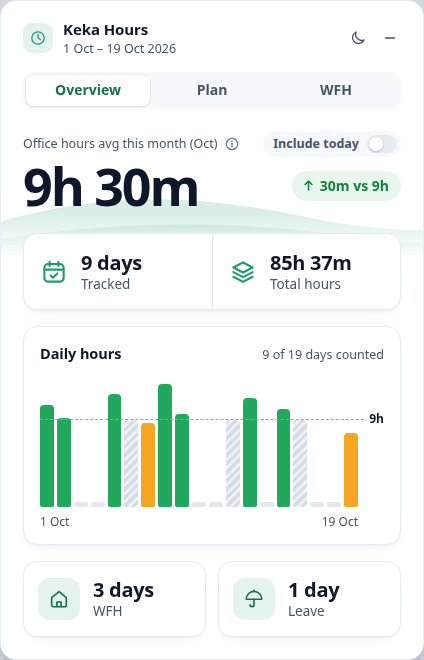
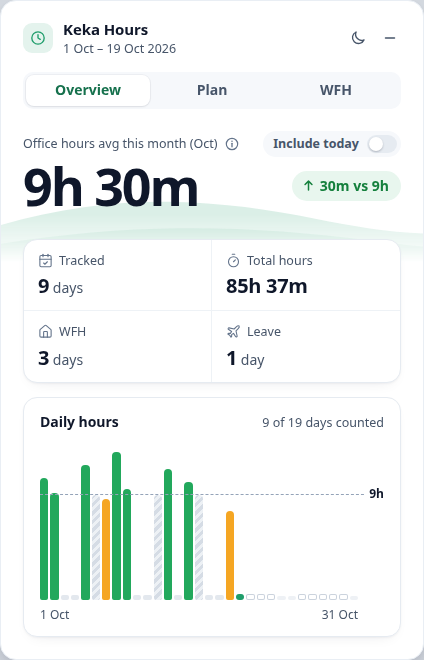
Overview: design A (one stats card, whole-month chart at the bottom)
- Tracked | Total hours over WFH | Leave in one card; each label has a thin
  grey Lucide icon (calendar, timer, house, plane) instead of the big green
  ones and icon tiles; numbers bold, units lighter.
- Daily hours moves to the bottom and always spans the whole current month:
  today a green mark, days to come an outlined mark (week-ends fainter), so a
  day's bar sits where it belongs (5 Nov near the start, not at the end).
- Stronger wave under the average.
- README text and docs/overview.png updated.

diff --git a/src/content/ui.js b/src/content/ui.js
@@ -20,11 +20,12 @@
   const ICON_SUN = '<svg viewBox="0 0 24 24" aria-hidden="true"><circle cx="12" cy="12" r="4" fill="none" stroke="currentColor" stroke-width="1.8"/><path d="M12 3v2M12 19v2M3 12h2M19 12h2M5.6 5.6L7 7M17 17l1.4 1.4M5.6 18.4L7 17M17 7l1.4-1.4" fill="none" stroke="currentColor" stroke-width="1.8" stroke-linecap="round"/></svg>';
   const ICON_BELL = '<svg viewBox="0 0 24 24" aria-hidden="true"><path d="M6.5 16.5V11a5.5 5.5 0 0 1 11 0v5.5l1.5 1.5H5z" fill="none" stroke="currentColor" stroke-width="2" stroke-linejoin="round"/><path d="M10 20.5a2.2 2.2 0 0 0 4 0" fill="none" stroke="currentColor" stroke-width="2" stroke-linecap="round"/></svg>';
   const ICON_PLUS = '<svg viewBox="0 0 24 24" aria-hidden="true"><path d="M12 5v14M5 12h14" fill="none" stroke="currentColor" stroke-width="2.2" stroke-linecap="round"/></svg>';
-  // Overview: tracked days, total hours, WFH, leave, and the "vs 9h" arrows.
-  const ICON_CAL = '<svg viewBox="0 0 24 24" aria-hidden="true"><rect x="3.75" y="5.25" width="16.5" height="15" rx="3" fill="none" stroke="currentColor" stroke-width="1.8"/><path d="M3.75 10h16.5M8.25 3.25v3.5M15.75 3.25v3.5M9.2 15.1l1.9 1.8 3.7-3.7" fill="none" stroke="currentColor" stroke-width="1.8" stroke-linecap="round" stroke-linejoin="round"/></svg>';
-  const ICON_STACK = '<svg viewBox="0 0 24 24" aria-hidden="true"><path d="M12 3.75 3.75 8.1 12 12.45l8.25-4.35z" fill="none" stroke="currentColor" stroke-width="1.8" stroke-linejoin="round"/><path d="M3.75 12.1 12 16.45l8.25-4.35M3.75 16.1 12 20.45l8.25-4.35" fill="none" stroke="currentColor" stroke-width="1.8" stroke-linecap="round" stroke-linejoin="round"/></svg>';
-  const ICON_HOME = '<svg viewBox="0 0 24 24" aria-hidden="true"><path d="M4 10.4 12 4l8 6.4v8.1a2 2 0 0 1-2 2H6a2 2 0 0 1-2-2z" fill="none" stroke="currentColor" stroke-width="1.8" stroke-linejoin="round"/><path d="M9.75 20.5v-5.25h4.5v5.25" fill="none" stroke="currentColor" stroke-width="1.8" stroke-linejoin="round"/></svg>';
-  const ICON_UMBRELLA = '<svg viewBox="0 0 24 24" aria-hidden="true"><path d="M3.5 12.25a8.5 8.5 0 0 1 17 0z" fill="none" stroke="currentColor" stroke-width="1.8" stroke-linejoin="round"/><path d="M12 12.25v6a2.1 2.1 0 0 1-4.2 0M12 3.75v-1.2" fill="none" stroke="currentColor" stroke-width="1.8" stroke-linecap="round"/></svg>';
+  // Overview stats: Lucide icons (ISC licence), drawn thin and grey beside each label.
+  const lucide = paths => `<svg viewBox="0 0 24 24" aria-hidden="true" fill="none" stroke="currentColor" stroke-width="1.75" stroke-linecap="round" stroke-linejoin="round">${paths}</svg>`;
+  const ICON_CAL = lucide('<path d="M8 2v4"/><path d="M16 2v4"/><rect width="18" height="18" x="3" y="4" rx="2"/><path d="M3 10h18"/><path d="m9 16 2 2 4-4"/>');
+  const ICON_TIMER = lucide('<path d="M10 2h4"/><path d="m12 14 3-3"/><circle cx="12" cy="14" r="8"/>');
+  const ICON_HOUSE = lucide('<path d="M15 21v-8a1 1 0 0 0-1-1h-4a1 1 0 0 0-1 1v8"/><path d="M3 10a2 2 0 0 1 .709-1.528l7-5.999a2 2 0 0 1 2.582 0l7 5.999A2 2 0 0 1 21 10v9a2 2 0 0 1-2 2H5a2 2 0 0 1-2-2z"/>');
+  const ICON_PLANE = lucide('<path d="M17.8 19.2 16 11l3.5-3.5C21 6 21.5 4 21 3c-1-.5-3 0-4.5 1.5L13 8 4.8 6.2c-.5-.1-.9.1-1.1.5l-.3.5c-.2.5-.1 1 .3 1.3L9 12l-2 3H4l-1 1 3 2 2 3 1-1v-3l3-2 3.5 5.3c.3.4.8.5 1.3.3l.5-.2c.4-.3.6-.7.5-1.2z"/>');
   const ICON_UP = '<svg viewBox="0 0 24 24" aria-hidden="true"><path d="M12 19V5M6.5 10.5 12 5l5.5 5.5" fill="none" stroke="currentColor" stroke-width="2.4" stroke-linecap="round" stroke-linejoin="round"/></svg>';
   const ICON_DOWN = '<svg viewBox="0 0 24 24" aria-hidden="true"><path d="M12 5v14M6.5 13.5 12 19l5.5-5.5" fill="none" stroke="currentColor" stroke-width="2.4" stroke-linecap="round" stroke-linejoin="round"/></svg>';
   // Overview: the soft wave under the average (decoration only).
@@ -65,7 +66,10 @@
   --card: #fff;
   --card-line: #e6ebf1;
   --card-shadow: 0 1px 2px rgba(15, 23, 42, .04), 0 6px 16px -10px rgba(15, 23, 42, .14);
-  --wave: .17;
+  --wave: .16;
+  --cell-line: #eef2f6;
+  --future-line: #cbd3dd;
+  --future-off: #eef1f5;
   --wfh-a: #d5dce5;
   --wfh-b: #edf1f5;
   --wfh-hover-a: #b9c3cf;
@@ -126,7 +130,10 @@
   --card: #1b2129;
   --card-line: #2a323c;
   --card-shadow: none;
-  --wave: .2;
+  --wave: .22;
+  --cell-line: #252d37;
+  --future-line: #3d4855;
+  --future-off: #232a33;
   --wfh-a: #38424f;
   --wfh-b: #232a33;
   --wfh-hover-a: #4b5766;
@@ -223,7 +230,7 @@ svg { width: 100%; height: 100%; display: block; }
 .pane[data-pane="wfh"] { display: flex; flex-direction: column; }
 
 /* ---------- Overview: the average, then cards ---------- */
-.ov-hero { position: relative; padding: 6px 0 20px; }
+.ov-hero { position: relative; padding: 6px 0 26px; }
 .ov-top { position: relative; z-index: 2; } /* its tooltip opens over the number */
 .ov-row { position: relative; z-index: 1; display: flex; align-items: center; justify-content: space-between; gap: 12px; margin-top: 2px; }
 .ov-value { font-size: 52px; line-height: 1.04; font-weight: 700; letter-spacing: -.04em; white-space: nowrap; }
@@ -233,27 +240,27 @@ svg { width: 100%; height: 100%; display: block; }
 .ov-chip.flat { padding: 0 12px; }
 .ov-chip svg { width: 15px; height: 15px; flex: none; }
 /* Edge to edge, fading out behind the first card. */
-.ov-wave { position: absolute; left: -22px; right: -22px; bottom: -30px; width: auto; height: 104px; pointer-events: none; -webkit-mask-image: linear-gradient(#000 50%, transparent 94%); mask-image: linear-gradient(#000 50%, transparent 94%); }
+.ov-wave { position: absolute; left: -22px; right: -22px; bottom: -30px; width: auto; height: 110px; pointer-events: none; -webkit-mask-image: linear-gradient(#000 50%, transparent 94%); mask-image: linear-gradient(#000 50%, transparent 94%); }
 .ov-wave path { fill: var(--brand); opacity: var(--wave); }
+.ov-wave path + path { opacity: calc(var(--wave) * .75); }
 .ov-card { position: relative; border: 1px solid var(--card-line); border-radius: 14px; background: var(--card); box-shadow: var(--card-shadow); }
-.ov-stats { display: grid; grid-template-columns: 1fr 1fr; }
-.ov-stat { display: flex; align-items: center; gap: 13px; min-width: 0; padding: 16px; }
-.ov-stat + .ov-stat { border-left: 1px solid var(--card-line); }
-.ov-icon { flex: none; width: 28px; height: 28px; color: var(--brand); }
-.ov-stat > div, .ov-ex > div { min-width: 0; }
-.ov-v { font-size: 20px; font-weight: 700; letter-spacing: -.015em; line-height: 1.25; white-space: nowrap; }
-.ov-l { font-size: 13.5px; color: var(--muted); white-space: nowrap; overflow: hidden; text-overflow: ellipsis; }
-.ov-pair { display: grid; grid-template-columns: 1fr 1fr; gap: 12px; margin-top: 16px; }
-.ov-ex { display: flex; align-items: center; gap: 13px; min-width: 0; padding: 15px 14px; }
-.ov-tile { flex: none; width: 42px; height: 42px; padding: 10px; border-radius: 12px; background: var(--brand-soft); color: var(--brand-text); }
-.ov-today { margin-top: 14px; padding: 9px 12px; border-radius: 11px; background: var(--brand-soft); font-size: 13px; color: var(--brand-text); }
+/* Tracked | Total hours over WFH | Leave: one card, four cells. */
+.ov-grid { display: grid; grid-template-columns: repeat(2, minmax(0, 1fr)); }
+.ov-cell { min-width: 0; padding: 12px 14px; }
+.ov-cell:nth-child(odd) { border-right: 1px solid var(--cell-line); }
+.ov-cell:nth-child(-n+2) { border-bottom: 1px solid var(--cell-line); }
+.ov-k { display: flex; align-items: center; gap: 6px; font-size: 12.5px; color: var(--muted); white-space: nowrap; overflow: hidden; text-overflow: ellipsis; }
+.ov-k svg { flex: none; width: 15px; height: 15px; color: var(--subtle); }
+.ov-v { margin-top: 4px; font-size: 20px; font-weight: 700; letter-spacing: -.015em; line-height: 1.25; white-space: nowrap; }
+.ov-v small { font-size: 14px; font-weight: 500; letter-spacing: 0; color: var(--muted); }
+.ov-today { margin-top: 12px; padding: 9px 12px; border-radius: 11px; background: var(--brand-soft); font-size: 13px; color: var(--brand-text); }
 .ov-today b { font-weight: 700; }
 
 /* Daily hours: fills the space left by the taller Plan tab. */
-.ov-chart { flex: 1; display: flex; flex-direction: column; margin-top: 16px; padding: 16px 16px 13px; }
+.ov-chart { flex: 1; display: flex; flex-direction: column; margin-top: 14px; padding: 14px 16px 12px; }
 .spark-head { display: flex; align-items: baseline; justify-content: space-between; gap: 12px; font-size: 12.5px; color: var(--muted); }
 .ov-empty { flex: 1; display: grid; place-items: center; min-height: 68px; font-size: 13px; color: var(--subtle); }
-.spark-head b { font-size: 14.5px; font-weight: 650; letter-spacing: -.005em; color: var(--text); }
+.spark-head b { font-size: 14px; font-weight: 650; letter-spacing: -.005em; color: var(--text); }
 .spark { position: relative; flex: 1; min-height: 68px; margin-top: 12px; padding-right: 26px; display: flex; align-items: flex-end; gap: 3px; }
 .spark .bar { flex: 1 1 0; max-width: 20px; min-height: 3px; border-radius: 4px 4px 2px 2px; background: var(--bar); transition: background .14s ease; }
 .spark .bar.warn { background: var(--bar-warn); }
@@ -266,6 +273,14 @@ svg { width: 100%; height: 100%; display: block; }
 .spark .bar.stub:hover { background: var(--stub-hover); }
 .spark .bar.live { background: transparent; box-shadow: inset 0 0 0 1.5px var(--brand-line); }
 .spark .bar.live:hover { background: var(--brand-soft); }
+/* Days still to come this month: an outlined mark (week-offs a faint one); today a green mark. */
+.spark .bar.future { height: 6px; min-height: 0; border-radius: 2px; background: transparent; box-shadow: inset 0 0 0 1px var(--future-line); }
+.spark .bar.future-off { height: 4px; min-height: 0; border-radius: 2px; background: var(--future-off); }
+.spark .bar.today-slot { height: 6px; min-height: 0; border-radius: 3px; background: var(--brand); }
+.spark .bar.future:hover, .spark .bar.future-off:hover, .spark .bar.today-slot:hover { filter: brightness(.92); }
+.spark .bar.future:hover { background: transparent; box-shadow: inset 0 0 0 1px var(--subtle); }
+.spark .bar.future-off:hover { background: var(--future-off); }
+.spark .bar.today-slot:hover { background: var(--brand); }
 .spark .line { position: absolute; left: 0; right: 0; border-top: 1.5px dashed var(--guide); pointer-events: none; }
 .spark .line span { position: absolute; right: 0; top: -8px; line-height: 14px; font-size: 12px; font-weight: 700; color: var(--text); background: var(--card); padding-left: 5px; }
 .spark-foot { display: flex; justify-content: space-between; margin-top: 7px; padding-right: 26px; font-size: 12px; color: var(--muted); }
@@ -516,7 +531,7 @@ button.cal-cell:hover { transform: translateY(-1px); border-color: var(--brand);
 @media (max-width: 480px) {
   .hero-value { font-size: 38px; } .ov-value { font-size: 44px; } .cal-cell { height: 44px; } .cal.six .cal-cell { height: 36px; }
   .head { padding: 16px 14px 12px 16px; } .content { padding: 2px 16px 16px; } .ov-wave { left: -16px; right: -16px; }
-  .ov-stat { gap: 10px; padding: 14px 12px; } .ov-v { font-size: 18.5px; } .tabs { margin: 0 16px 12px; }
+  .ov-cell { padding: 11px 12px; } .ov-v { font-size: 18.5px; } .tabs { margin: 0 16px 12px; }
 }
 `;
 
@@ -606,11 +621,10 @@ button.cal-cell:hover { transform: translateY(-1px); border-color: var(--brand);
     const chip = d == null ? ''
       : d === 0 ? `<span class="ov-chip good flat">On ${target}</span>`
       : `<span class="ov-chip ${t}" role="img" aria-label="${esc(`${fmt.delta(Math.abs(d)).slice(1)} ${d > 0 ? 'above' : 'below'} ${target}`)}">${d > 0 ? ICON_UP : ICON_DOWN}${fmt.delta(Math.abs(d)).slice(1)} vs ${target}</span>`;
-    const stat = (icon, value, label, tile, tip = label) => `
-      <div class="${tile ? 'ov-card ov-ex' : 'ov-stat'}" title="${esc(tip)}">
-        <span class="${tile ? 'ov-tile' : 'ov-icon'}">${icon}</span>
-        <div><div class="ov-v">${value}</div><div class="ov-l">${esc(label)}</div></div>
-      </div>`;
+    const cell = (icon, label, value, tip = label) => `
+      <div class="ov-cell" title="${esc(tip)}"><div class="ov-k">${icon}${esc(label)}</div><div class="ov-v">${value}</div></div>`;
+    // "2 days": the number bold, the unit lighter.
+    const days = n => `${n}<small> ${n === 1 ? 'day' : 'days'}</small>`;
 
     return `
       <div class="ov-hero">
@@ -628,18 +642,15 @@ button.cal-cell:hover { transform: translateY(-1px); border-color: var(--brand);
         </div>
       </div>
 
-      <div class="ov-card ov-stats">
-        ${stat(ICON_CAL, dayCount(s.trackedDays), 'Tracked', false, trackedLabel)}
-        ${stat(ICON_STACK, fmt.duration(s.totalMinutes), 'Total hours')}
+      <div class="ov-card ov-grid">
+        ${cell(ICON_CAL, 'Tracked', days(s.trackedDays), trackedLabel)}
+        ${cell(ICON_TIMER, 'Total hours', fmt.duration(s.totalMinutes))}
+        ${cell(ICON_HOUSE, 'WFH', days(s.wfhDays), 'WFH days aren’t counted in the average')}
+        ${cell(ICON_PLANE, 'Leave', days(s.leaveDays), 'Leave days aren’t counted in the average')}
       </div>
+      ${s.pendingToday ? `<div class="ov-today">Today <b>${fmt.duration(s.pendingToday.grossMinutes)}</b> so far — counted once you clock out.</div>` : ''}
 
-      ${sparkHtml(s)}
-
-      <div class="ov-pair">
-        ${stat(ICON_HOME, dayCount(s.wfhDays), 'WFH', true, 'WFH days aren’t counted in the average')}
-        ${stat(ICON_UMBRELLA, dayCount(s.leaveDays), 'Leave', true, 'Leave days aren’t counted in the average')}
-      </div>
-      ${s.pendingToday ? `<div class="ov-today">Today <b>${fmt.duration(s.pendingToday.grossMinutes)}</b> so far — counted once you clock out.</div>` : ''}`;
+      ${sparkHtml(s, m)}`;
   }
 
   /**
@@ -647,11 +658,14 @@ button.cal-cell:hover { transform: translateY(-1px); border-color: var(--brand);
    * differences are visible). Counted days are green / amber; WFH days show
    * their hours as a striped grey bar (not counted); leave, holidays,
    * week-offs and no-time days are a short grey stub; today while clocked in
-   * is a dashed outline.
+   * is a dashed outline. In the current month the rest of the month follows
+   * (`monthTail`), so each day keeps its place: today a green mark, days to come
+   * an outlined one (week-ends fainter).
    */
-  function sparkHtml(s) {
+  function sparkHtml(s, m = {}) {
     const days = s.allDays && s.allDays.length ? s.allDays : (s.includedDays || []).map(d => ({ ...d, kind: 'included' }));
-    if (!days.length) return '<div class="ov-card ov-chart"><div class="spark-head"><b>Daily hours</b></div><div class="ov-empty">No days yet</div></div>';
+    const tail = monthTail(days, m);
+    if (!days.length && !tail.length) return '<div class="ov-card ov-chart"><div class="spark-head"><b>Daily hours</b></div><div class="ov-empty">No days yet</div></div>';
     const lo = 5 * 60;
     const hi = Math.max(11 * 60, ...days.map(d => d.grossMinutes || 0));
     const y = min => Math.max(0, Math.min(100, ((min - lo) / (hi - lo)) * 100));
@@ -675,19 +689,44 @@ button.cal-cell:hover { transform: translateY(-1px); border-color: var(--brand);
           return `<span class="bar stub" title="${esc(`${label} · ${what}`)}"></span>`;
         }
       }
+    }).join('') + tail.map(t => {
+      const label = fmt.dayDate(t.date);
+      if (t.today) return `<span class="bar today-slot" title="${esc(`${label} · Today`)}"></span>`;
+      return `<span class="bar ${t.off ? 'future-off' : 'future'}" title="${esc(`${label} · ${t.off ? 'Week-end' : 'To come'}`)}"></span>`;
     }).join('');
-    const first = fmt.dayDate(days[0].date).split(', ')[1];
-    const last = fmt.dayDate(days[days.length - 1].date).split(', ')[1];
+    const all = [...days.map(d => d.date), ...tail.map(t => t.date)];
+    const first = fmt.dayDate(all[0]).split(', ')[1];
+    const last = fmt.dayDate(all[all.length - 1]).split(', ')[1];
     const counted = s.trackedDays;
+    const toCome = tail.length ? `, ${tail.length} still to come` : '';
     return `
       <div class="ov-card ov-chart">
-        <div class="spark-head"><b>Daily hours</b><span>${counted} of ${dayCount(days.length)} counted</span></div>
-        <div class="spark${days.length > 20 ? ' dense' : ''}" role="img" aria-label="Daily hours: ${s.daysAtOrAboveTarget} counted days at or above ${target}, ${s.daysBelowTarget} below, ${days.length - counted} not counted">
+        <div class="spark-head"><b>Daily hours</b><span>${days.length ? `${counted} of ${dayCount(days.length)} counted` : 'No days yet'}</span></div>
+        <div class="spark${all.length > 20 ? ' dense' : ''}" role="img" aria-label="Daily hours: ${s.daysAtOrAboveTarget} counted days at or above ${target}, ${s.daysBelowTarget} below, ${days.length - counted} not counted${toCome}">
           ${bars}
           <div class="line" style="bottom:${y(s.targetMinutes).toFixed(1)}%"><span>${target}</span></div>
         </div>
-        <div class="spark-foot"><span>${esc(first)}</span><span>${days.length > 1 ? esc(last) : ''}</span></div>
+        <div class="spark-foot"><span>${esc(first)}</span><span>${all.length > 1 ? esc(last) : ''}</span></div>
       </div>`;
+  }
+
+  /**
+   * The current month's days after the last one in the view, to the month's end:
+   * [{ date, today, off }] (off = Saturday / Sunday). [] for any other view.
+   */
+  function monthTail(days, m) {
+    if (!m.monthKey || !m.monthToDate || !m.todayKey || m.todayKey.slice(0, 7) !== m.monthKey) return [];
+    const [y, mo] = m.monthKey.split('-').map(Number);
+    const end = new Date(y, mo, 0).getDate();
+    const lastDate = days.length ? days[days.length - 1].date : null;
+    const from = lastDate && lastDate.slice(0, 7) === m.monthKey ? Number(lastDate.slice(8, 10)) + 1 : 1;
+    const out = [];
+    for (let d = from; d <= end; d += 1) {
+      const date = `${m.monthKey}-${String(d).padStart(2, '0')}`;
+      const dow = new Date(y, mo - 1, d).getDay();
+      out.push({ date, today: date === m.todayKey, off: dow === 0 || dow === 6 });
+    }
+    return out;
   }
 
   /** Small two-up card under the plan hero: [label / value / sub] × 2. */

diff --git a/README.md b/README.md
@@ -44,8 +44,9 @@ Keka. The moon/sun button in the card's header overrides it. The override is rem
 between Keka tabs) until you pick Keka's mode again or change Keka's display mode. If Keka's mode
 can't be read, the card follows your OS setting.
 
-- **Overview**: the average with how far it is above or below 9h, tracked days and total hours, a
-  daily-hours chart (green ≥ 9h, amber < 9h, striped WFH; hover a bar for its hours), and WFH / leave days.
+- **Overview**: the average with how far it is above or below 9h; tracked days, total hours, WFH and
+  leave days in one card; and a daily-hours chart for the whole month (green ≥ 9h, amber < 9h, striped
+  WFH; today marked green, days to come outlined; hover a bar for its hours).
   Click the ⓘ next to "Office hours avg this month" to see every day behind it in a pop-up: date,
   type (office / WFH / leave / week-off…) and hours, with counted days highlighted, and
   total ÷ counted days. The list scrolls for long months.
